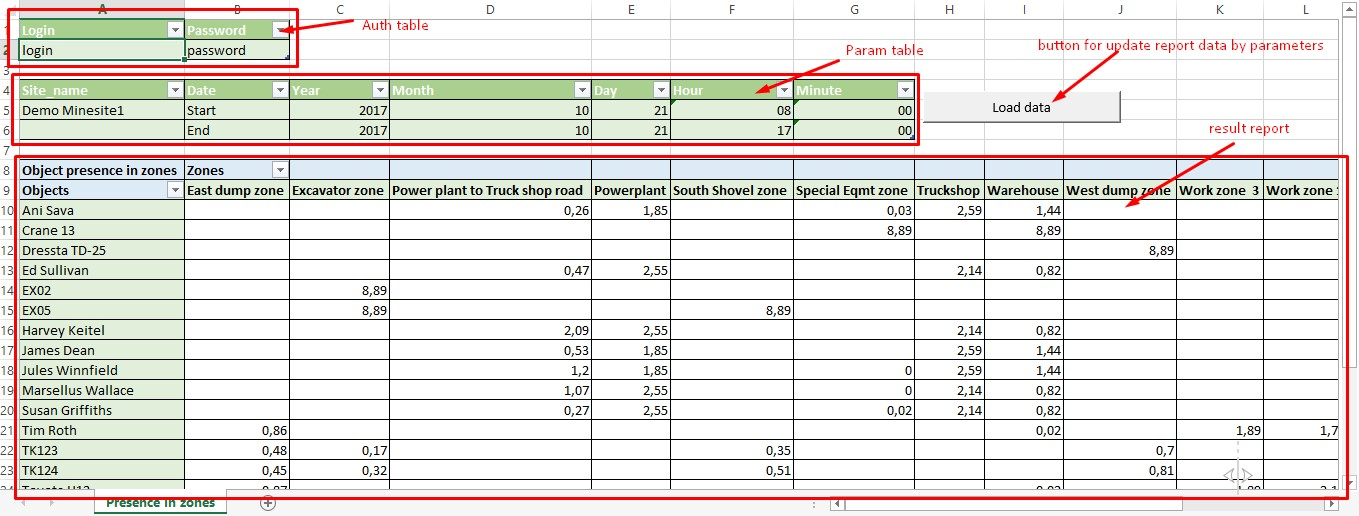
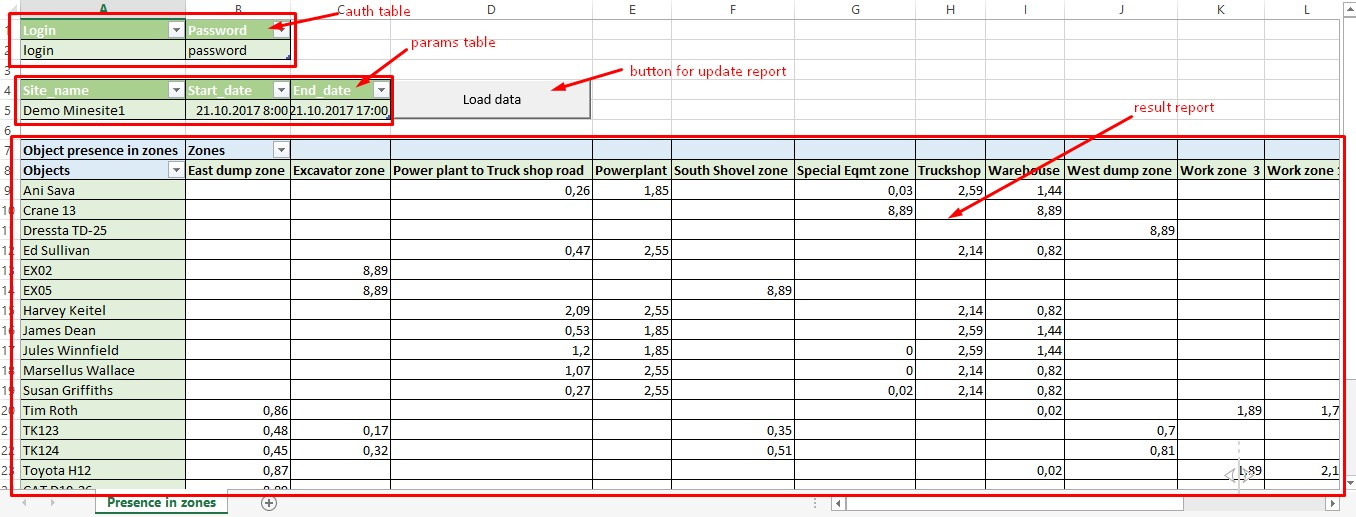
date parameters changed to date time value instead of multiple columns

diff --git a/README.md b/README.md
@@ -20,7 +20,7 @@ This sample allows you to see the report about object presence in site zones.
 
 - Set the login and password values in the auth table
 
-- Set the report parameters in params table. Hours and minutes has to be double digits, like "00", "07", "15". Note that last hour statistic included to report.
+- Set the report parameters in params table. The date time format is "dd.mm.yyyy hh:mm".
 
 - Click **Load data** button to create report
 
